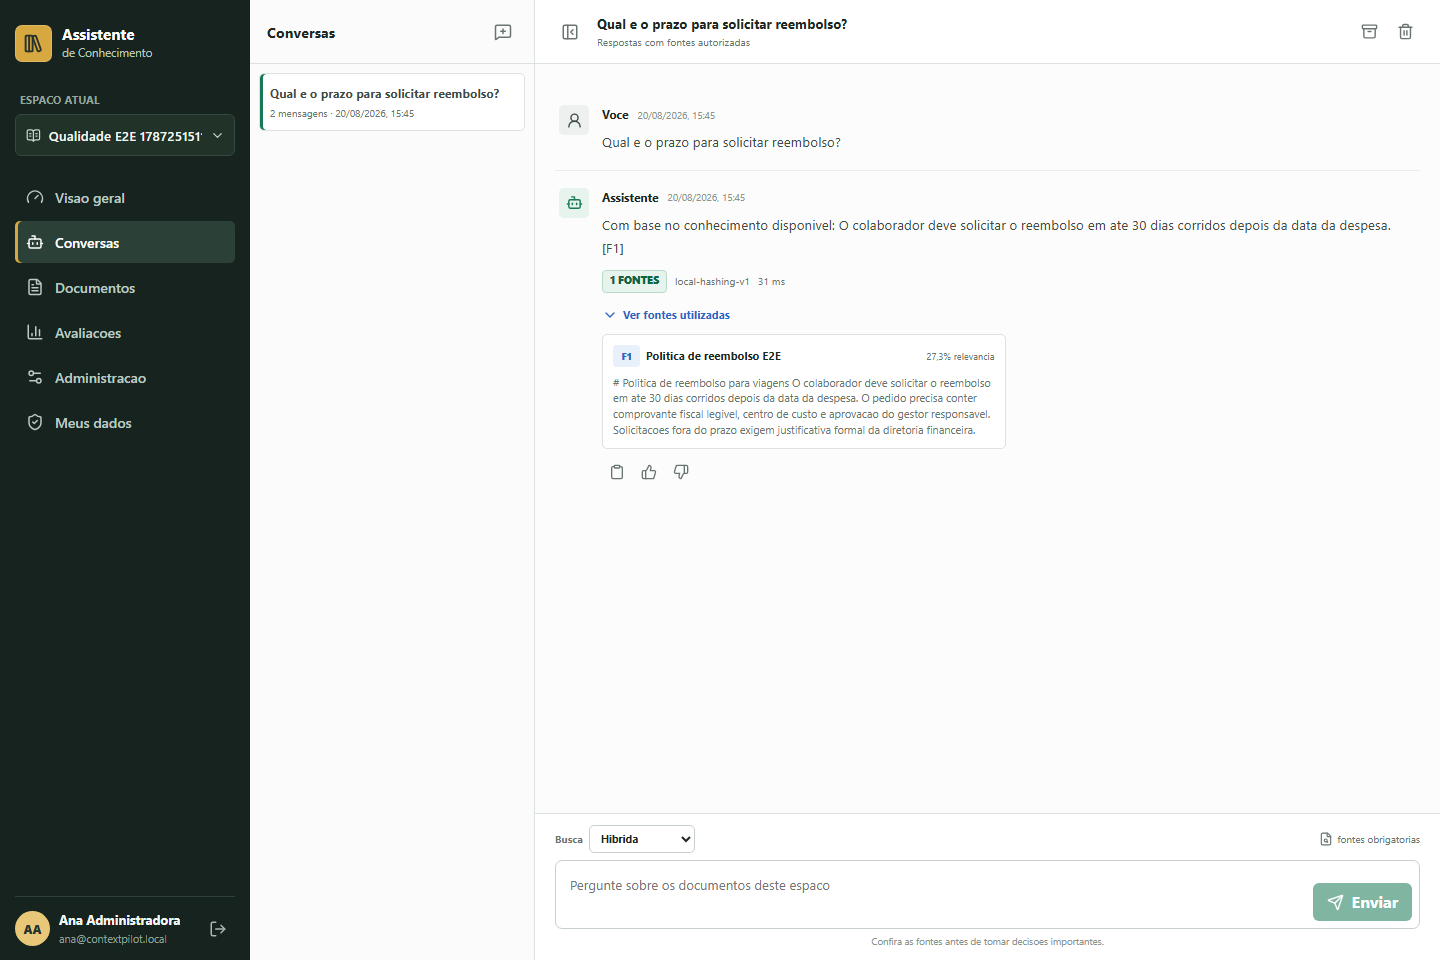
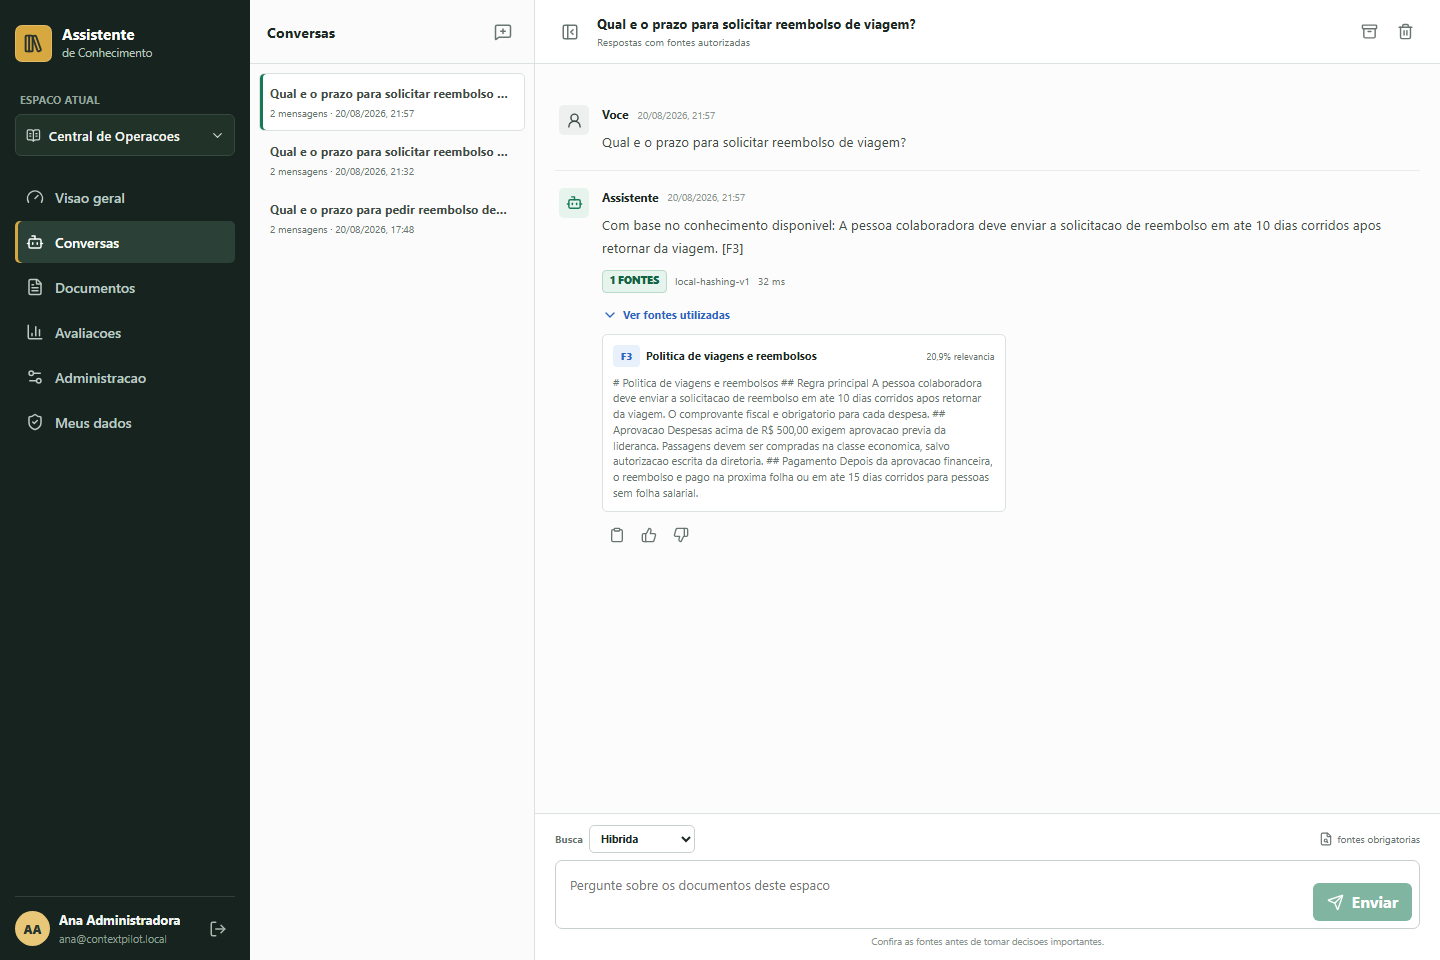
fix: sincroniza estados das avaliacoes

diff --git a/src/features/evaluations/evaluations-page.tsx b/src/features/evaluations/evaluations-page.tsx
@@ -22,6 +22,7 @@ import { useNotificacao } from '../../components/ui/notification';
 import { Status, tomDoEstado } from '../../components/ui/status-badge';
 import { mensagemDeErro } from '../../lib/api-client';
 import { formatarData, formatarMoedaUsd, formatarPercentual } from '../../lib/formatters';
+import { execucaoEstaAtiva, execucaoEstaConcluida } from './evaluation-state';
 
 export function PaginaAvaliacoes() {
   const { espacoId = '' } = useParams();
@@ -55,7 +56,7 @@ export function PaginaAvaliacoes() {
     queryFn: () => servico.listarExecucoes(espacoId, conjuntoId!),
     enabled: Boolean(conjuntoId),
     refetchInterval: (consulta) =>
-      consulta.state.data?.some((execucao) => ['AGENDADA', 'EM_EXECUCAO', 'PROCESSANDO'].includes(execucao.estado))
+      consulta.state.data?.some((execucao) => execucaoEstaAtiva(execucao.estado))
         ? 2000
         : false,
   });
@@ -159,7 +160,7 @@ export function PaginaAvaliacoes() {
             <section className="evaluation-command-bar">
               <div><strong>{conjuntos.data?.find((item) => item.id === conjuntoId)?.nome}</strong><span>{casos.data?.length ?? 0} casos cadastrados</span></div>
               <div className="evaluation-controls">
-                <label>Baseline<select value={baselineId} onChange={(evento) => definirBaselineId(evento.target.value)}><option value="">Sem comparacao</option>{execucoes.data?.filter((execucao) => execucao.estado === 'CONCLUIDO').map((execucao) => <option value={execucao.id} key={execucao.id}>{formatarData(execucao.finalizadaEm)}</option>)}</select></label>
+                <label>Baseline<select value={baselineId} onChange={(evento) => definirBaselineId(evento.target.value)}><option value="">Sem comparacao</option>{execucoes.data?.filter((execucao) => execucaoEstaConcluida(execucao.estado)).map((execucao) => <option value={execucao.id} key={execucao.id}>{formatarData(execucao.finalizadaEm)}</option>)}</select></label>
                 <Botao icone={Plus} onClick={() => definirModalCaso(true)} disabled={!conjuntoId}>Caso</Botao>
                 <Botao variante="primario" icone={Play} onClick={() => executar.mutate()} carregando={executar.isPending} disabled={!conjuntoId || !casos.data?.length}>Executar</Botao>
               </div>
@@ -177,7 +178,7 @@ export function PaginaAvaliacoes() {
                 <section className="section-panel evaluation-progress-panel">
                   <header className="section-header"><div><h2>Execucao selecionada</h2><p>Iniciada em {formatarData(execucaoAtual.iniciadaEm)}</p></div><Status tom={tomDoEstado(execucaoAtual.estado)}>{execucaoAtual.estado}</Status></header>
                   <div className="run-progress"><progress value={execucaoAtual.casosProcessados} max={Math.max(execucaoAtual.totalCasos, 1)} /><span>{execucaoAtual.casosProcessados} de {execucaoAtual.totalCasos} casos</span></div>
-                  {['AGENDADA', 'EM_EXECUCAO', 'PROCESSANDO'].includes(execucaoAtual.estado) && <Botao variante="perigo" icone={CircleStop} onClick={() => cancelar.mutate(execucaoAtual.id)} carregando={cancelar.isPending}>Cancelar execucao</Botao>}
+                  {execucaoEstaAtiva(execucaoAtual.estado) && <Botao variante="perigo" icone={CircleStop} onClick={() => cancelar.mutate(execucaoAtual.id)} carregando={cancelar.isPending}>Cancelar execucao</Botao>}
                   {execucaoAtual.erro && <p className="cell-error">{execucaoAtual.erro}</p>}
                 </section>
 

diff --git a/e2e/knowledge-flow.spec.ts b/e2e/knowledge-flow.spec.ts
@@ -9,7 +9,7 @@ async function entrarComoAna(pagina: import('@playwright/test').Page) {
   await expect(pagina).toHaveURL(/\/espacos/);
 }
 
-test('cria espaco, processa documento e responde com fonte', async ({ page }) => {
+test('cria espaco, processa documento e responde com fonte', async ({ page }, testInfo) => {
   test.setTimeout(90_000);
   await entrarComoAna(page);
   const nome = `Qualidade E2E ${Date.now()}`;
@@ -20,7 +20,7 @@ test('cria espaco, processa documento e responde com fonte', async ({ page }) =>
   await page.getByRole('button', { name: 'Criar espaco' }).click();
 
   await expect(page.getByRole('heading', { name: nome })).toBeVisible();
-  await page.screenshot({ path: 'docs/screenshots/dashboard-desktop.png', fullPage: true });
+  await page.screenshot({ path: testInfo.outputPath('dashboard-e2e.png'), fullPage: true });
   await page.getByRole('link', { name: 'Documentos', exact: true }).click();
   await expect(page.getByRole('heading', { name: 'Documentos' })).toBeVisible();
   await page.getByRole('button', { name: 'Enviar documento' }).first().click();
@@ -37,7 +37,7 @@ test('cria espaco, processa documento e responde com fonte', async ({ page }) =>
   await expect(page.getByText(/30 dias corridos/i)).toBeVisible({ timeout: 30_000 });
   await page.getByRole('button', { name: 'Ver fontes utilizadas' }).click();
   await expect(page.getByText('Politica de reembolso E2E')).toBeVisible();
-  await page.screenshot({ path: 'docs/screenshots/chat-sources-desktop.png', fullPage: true });
+  await page.screenshot({ path: testInfo.outputPath('chat-e2e.png'), fullPage: true });
 
   await page.getByRole('link', { name: 'Administracao', exact: true }).click();
   await expect(page.getByRole('heading', { name: 'Administracao' })).toBeVisible();

diff --git a/src/components/ui/status-badge.tsx b/src/components/ui/status-badge.tsx
@@ -9,8 +9,8 @@ export function Status({ tom = 'neutro', children }: PropriedadesStatus) {
 }
 
 export function tomDoEstado(estado: string): PropriedadesStatus['tom'] {
-  if (['PRONTO', 'ATIVO', 'CONCLUIDO', 'LIMPO', 'APROVADO'].includes(estado)) return 'sucesso';
-  if (['PENDENTE', 'PROCESSANDO', 'CONSTRUINDO', 'AGENDADA', 'EM_EXECUCAO'].includes(estado)) return 'aviso';
+  if (['PRONTO', 'ATIVO', 'CONCLUIDO', 'CONCLUIDA', 'LIMPO', 'APROVADO'].includes(estado)) return 'sucesso';
+  if (['PENDENTE', 'PROCESSANDO', 'CONSTRUINDO', 'AGENDADA', 'EM_EXECUCAO', 'EXECUTANDO'].includes(estado)) return 'aviso';
   if (['FALHOU', 'CANCELADA', 'REPROVADO'].includes(estado)) return 'erro';
   if (['RESTRITO', 'CURADOR'].includes(estado)) return 'informacao';
   return 'neutro';

diff --git a/src/features/evaluations/evaluation-state.test.ts b/src/features/evaluations/evaluation-state.test.ts
@@ -1,0 +1,17 @@
+import { describe, expect, it } from 'vitest';
+import { execucaoEstaAtiva, execucaoEstaConcluida } from './evaluation-state';
+
+describe('estado da execucao de avaliacao', () => {
+  it.each(['PENDENTE', 'EXECUTANDO'] as const)('mantem polling para %s', (estado) => {
+    expect(execucaoEstaAtiva(estado)).toBe(true);
+  });
+
+  it.each(['CONCLUIDA', 'FALHOU', 'CANCELADA'] as const)('encerra polling para %s', (estado) => {
+    expect(execucaoEstaAtiva(estado)).toBe(false);
+  });
+
+  it('aceita somente execucao concluida como baseline', () => {
+    expect(execucaoEstaConcluida('CONCLUIDA')).toBe(true);
+    expect(execucaoEstaConcluida('EXECUTANDO')).toBe(false);
+  });
+});

diff --git a/e2e/responsive.spec.ts b/e2e/responsive.spec.ts
@@ -5,5 +5,5 @@ test('tela de acesso permanece legivel em celular', async ({ page }, testInfo) =
   await expect(page.getByRole('heading', { name: 'Assistente de Conhecimento' })).toBeVisible();
   await expect(page.getByRole('button', { name: 'Continuar com Keycloak' })).toBeVisible();
   await expect(page.locator('body')).not.toHaveCSS('overflow-x', 'scroll');
-  await page.screenshot({ path: `docs/screenshots/login-${testInfo.project.name}.png`, fullPage: true });
+  await page.screenshot({ path: testInfo.outputPath(`login-${testInfo.project.name}.png`), fullPage: true });
 });

diff --git a/src/types/api.ts b/src/types/api.ts
@@ -165,10 +165,17 @@ export interface ResultadoCaso {
   detalhes: string;
 }
 
+export type EstadoExecucaoAvaliacao =
+  | 'PENDENTE'
+  | 'EXECUTANDO'
+  | 'CONCLUIDA'
+  | 'FALHOU'
+  | 'CANCELADA';
+
 export interface ExecucaoAvaliacao {
   id: Identificador;
   conjuntoId: Identificador;
-  estado: string;
+  estado: EstadoExecucaoAvaliacao;
   erro: string | null;
   totalCasos: number;
   casosProcessados: number;

diff --git a/src/features/evaluations/evaluation-state.ts b/src/features/evaluations/evaluation-state.ts
@@ -1,0 +1,11 @@
+import type { EstadoExecucaoAvaliacao } from '../../types/api';
+
+const estadosAtivos = new Set<EstadoExecucaoAvaliacao>(['PENDENTE', 'EXECUTANDO']);
+
+export function execucaoEstaAtiva(estado: EstadoExecucaoAvaliacao) {
+  return estadosAtivos.has(estado);
+}
+
+export function execucaoEstaConcluida(estado: EstadoExecucaoAvaliacao) {
+  return estado === 'CONCLUIDA';
+}

diff --git a/CHANGELOG.md b/CHANGELOG.md
@@ -1,0 +1,22 @@
+# Changelog
+
+Todas as mudancas relevantes deste projeto sao registradas neste arquivo.
+O formato segue [Keep a Changelog](https://keepachangelog.com/pt-BR/1.1.0/)
+e o versionamento segue [Semantic Versioning](https://semver.org/lang/pt-BR/).
+
+## [1.0.1] - 2026-08-20
+
+### Corrigido
+
+- Estados de avaliacao foram alinhados ao contrato real da API.
+- Execucoes `PENDENTE` e `EXECUTANDO` agora mantem a atualizacao automatica.
+- Execucoes `CONCLUIDA` voltaram a aparecer como baseline e com status de sucesso.
+- Testes visuais nao sobrescrevem mais as imagens estaveis da documentacao.
+
+## [1.0.0] - 2026-08-20
+
+### Adicionado
+
+- Interface React e TypeScript para documentos, conversas RAG, avaliacoes e administracao.
+- Autenticacao OAuth2/OIDC com Authorization Code e PKCE.
+- Testes unitarios, Playwright responsivo, imagem Docker e Nginx sem privilegios.
